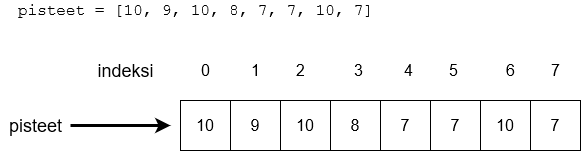
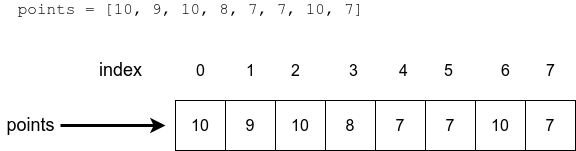
4-3 checked

diff --git a/data/part-4/3-lists.md b/data/part-4/3-lists.md
@@ -10,12 +10,12 @@ After this section
 
 - You will know what lists are in Python
 - You will be able access a specified item within a list
-- You will know how to add items to a list, and to remove them
+- You will know how to add items to a list, and how to remove them
 - You will be familiar with built-in list functions and methods
 
 </text-box>
 
-Thus far in our programs we have stored data with variables, each bit of data usually having their own named variable. This obviously has its limitations, as it can get cumbersome to define separate variables for everything when there is a lot of data to handle. 
+Thus far in our programs we have stored data with variables, each bit of data usually having its own named variable. This obviously has some limitations, as it can get cumbersome to define separate variables for everything when there is a lot of data to handle. 
 
 A Python _list_ is a collection of values which is accessed via a single variable name. The contents of the list are written within square brackets. The values contained in the list are called _items_, or sometimes _elements_.
 
@@ -33,11 +33,11 @@ my_list = [7, 2, 2, 5, 2]
 
 ## Accessing items in a list
 
-The items in a list are indexed in exactly the same way as characters in a string. Indexing starts from zero and the last index is the length of the list minus 1:
+The items in a list are indexed in exactly the same way as characters in a string. Indexing starts from zero, and the last index is the length of the list minus 1:
 
 <img src="4_2_1.png" alt="Lists are indexed starting from 0">
 
-A single list item can be accessed just like a single character in a string could, with square brackets:
+A single list item can be accessed just like a single character in a string is accessed, with square brackets:
 
 ```python
 my_list = [7, 2, 2, 5, 2]
@@ -58,7 +58,7 @@ The sum of the first two items: 9
 
 </sample-output>
 
-The entire contents of the list also can be printed:
+The entire contents of the list can also be printed out:
 
 ```python
 my_list = [7, 2, 2, 5, 2]
@@ -71,7 +71,7 @@ print(my_list)
 
 </sample-output>
 
-Unlike strings, lists are mutable, which means that their contents can change. You can assign a new value to an item, just like you an assign a new value to a variable:
+Unlike strings, lists are mutable, which means their contents can change. You can assign a new value to an item within a list, just like you can assign a new value to a variable:
 
 ```python
 my_list = [7, 2, 2, 5, 2]
@@ -103,7 +103,7 @@ print(len(my_list))
 
 <programming-exercise name='Change the value of an item' tmcname='part04-12_change_value_of_item'>
 
-Please write a program which initialises a list with the values `[1, 2, 3, 4, 5]`. Then the program should ask the user for an index and a new value, replace the value at the given index, and print the list again. This should be looped over until the user gives -1 for the index.
+Please write a program which initialises a list with the values `[1, 2, 3, 4, 5]`. Then the program should ask the user for an index and a new value, replace the value at the given index, and print the list again. This should be looped over until the user gives -1 for the index. You can assume all given index values will fall within your list.
 
 An example execution of the program:
 
@@ -126,7 +126,7 @@ Index: **-1**
 
 </programming-exercise>
 
-## Adding and removing items
+## Adding items to a list
 
 The `append` method adds items to the end of a list. It works like this:
 
@@ -197,6 +197,8 @@ Item 3: **34**
 
 </programming-exercise>
 
+## Adding to a specific location
+
 If you want to specify a location in the list where an item should be added, you can use the `insert` method. The method adds an item at the specified index. All the items already in the list with an index equal to or higher than the specified index are moved one index further, "to the right":
 
 <img src="4_2_2.png" alt = "Inserting an item to a list">
@@ -219,6 +221,8 @@ prints out this:
 [10, 1, 20, 2, 3, 4, 5, 6]
 
 </sample-output>
+
+## Removing items from a list
 
 There are two different approaches to removing an item from a list:
 
@@ -300,7 +304,7 @@ print(my_list)
 
 <programming-exercise name='Addition and removal' tmcname='part04-14_addition_and_removal'>
 
-Please write a program which asks the user to choose between addition and removal. Depending on the choice, the program adds an item to or removes an item from the end of a list. The item that is added must always be one greater than the last item in the list. The first item to be added must be 1.
+Please write a program which asks the user to choose between addition and removal. Depending on the choice, the program _adds an item to_ or _removes an item from_ the end of a list. The item that is added must always be one greater than the last item in the list. The first item to be added must be 1.
 
 The list is printed out in the beginning and after each operation. Have a look at the example execution below:
 
@@ -322,7 +326,7 @@ Bye!
 
 </sample-output>
 
-You may assume that if the list is empty, there will not be an attempt to remove items.
+You may assume that, if the list is empty, there will not be an attempt to remove items.
 
 **NB:** this exercise doesn't ask you to write any functions, so you should __not__ place any code within an `if __name__ == "__main__"` block.
 
@@ -412,7 +416,7 @@ print(in_order)
 
 <programming-exercise name='List twice' tmcname='part04-16_list_twice'>
 
-Please write a program which asks the user to type in values and adds them to a list. After each addition the list is printed out in two different ways:
+Please write a program which asks the user to type in values and adds them to a list. After each addition, the list is printed out in two different ways:
 - in the order the items were added
 - ordered from smallest to greatest
 
@@ -498,7 +502,8 @@ print("Smallest:", smallest)
 print("Greatest:", greatest)
 print("Length of the list:", length)
 
-# another function call; the list itself is an argument, the function returns a sorted copy
+# another function call 
+# the list itself is an argument, the function returns a sorted copy
 in_order = sorted(my_list))
 print(in_order)
 ```
@@ -555,7 +560,7 @@ def input_numbers():
     return numbers
 ```
 
-The function makes use of a helper variable `numbers`, which is a list. All the numbers typed in by the user are added to the list. When the loop is exited from, the function returns the list with the comand `return numbers`.
+The function makes use of a helper variable `numbers`, which is a list. All the numbers typed in by the user are added to the list. When the loop is exited from, the function returns the list with the statement `return numbers`.
 
 Calling the function like this
 
@@ -601,9 +606,9 @@ print("The greatest number is", max(numbers))
 print("The median of the numbers is", median)
 ```
 
-In this version following the programming logic is more difficult, as it is no longer clear which commands are a part of which functionality. The code fulfils the same purposes - reading in input, calculating the median value, and so on - but the structure is less clear.
+In this version, following the programming logic is more difficult, as it is no longer clear which commands are a part of which functionality. The code fulfils the same purposes - reading in input, calculating the median value, and so on - but the structure is less clear.
 
-Organising your code into separate functions will improve you program's readability, but also make it easier to handle logical wholes. This in turn helps you verify the program works as intended, as each function can be tested separately.
+Organising your code into separate functions will improve you program's readability, but also make it easier to handle logical wholes. This in turn helps you that verify the program works as intended, as each function can be tested separately.
 
 Another important use for functions is making code _reusable_. If you need to achieve some functionality twice is your program, it is a good idea to create your own function and name it appropriately:
 
@@ -615,7 +620,7 @@ print("Weights:")
 weights = input_numbers()
 
 print("Heights:")
-heughts = input_numbers()
+heights = input_numbers()
 ```
 
 <programming-exercise name='The length of a list' tmcname='part04-17_length_of_list'>
@@ -628,7 +633,7 @@ result = length(my_list))
 print("The length is", result)
 
 # the list given as an argument doesn't need to be stored in any variable
-result = pituus([1, 1, 1, 1])
+result = length([1, 1, 1, 1])
 print("The length is", result)
 ```
 
@@ -678,10 +683,11 @@ The range of the list is 4
 
 </programming-exercise>
 
-## More ways to use lists
 
 There are many more ways to use lists in Python. The Python [documentation](https://docs.python.org/3/tutorial/datastructures.html) is a good place to start if you want to know more.
 
+<!---
 A quiz to review the contents of this section:
 
 <quiz id="4849cd69-1938-5f4f-8805-8445f0f5c015"></quiz>
+-->
